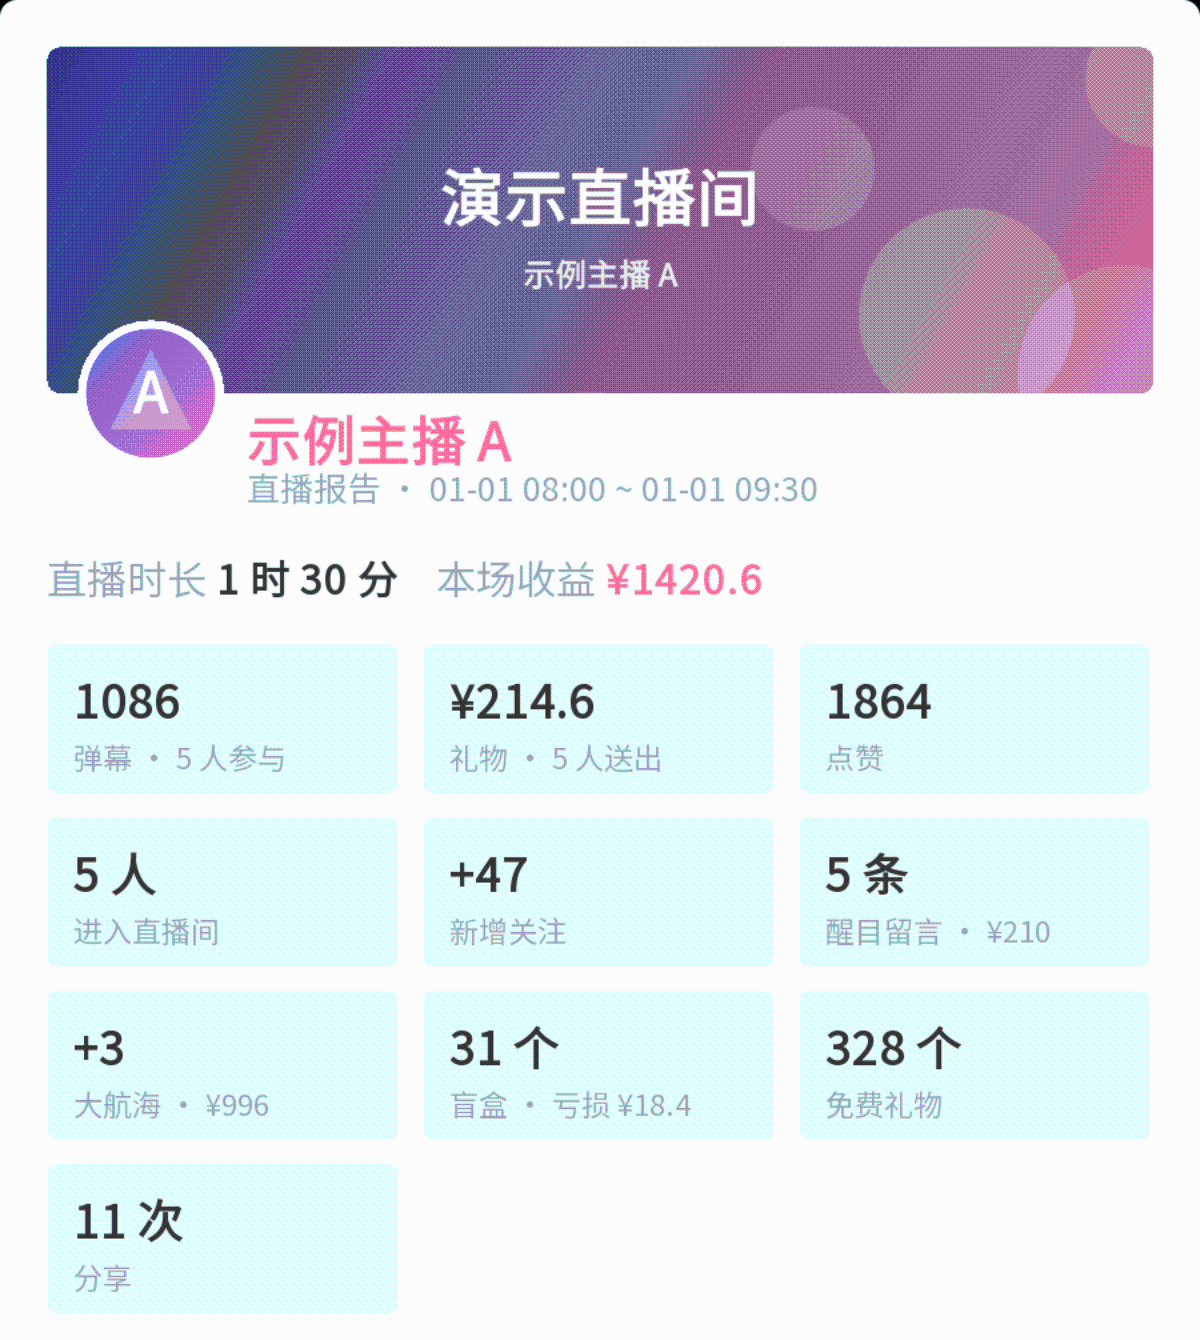
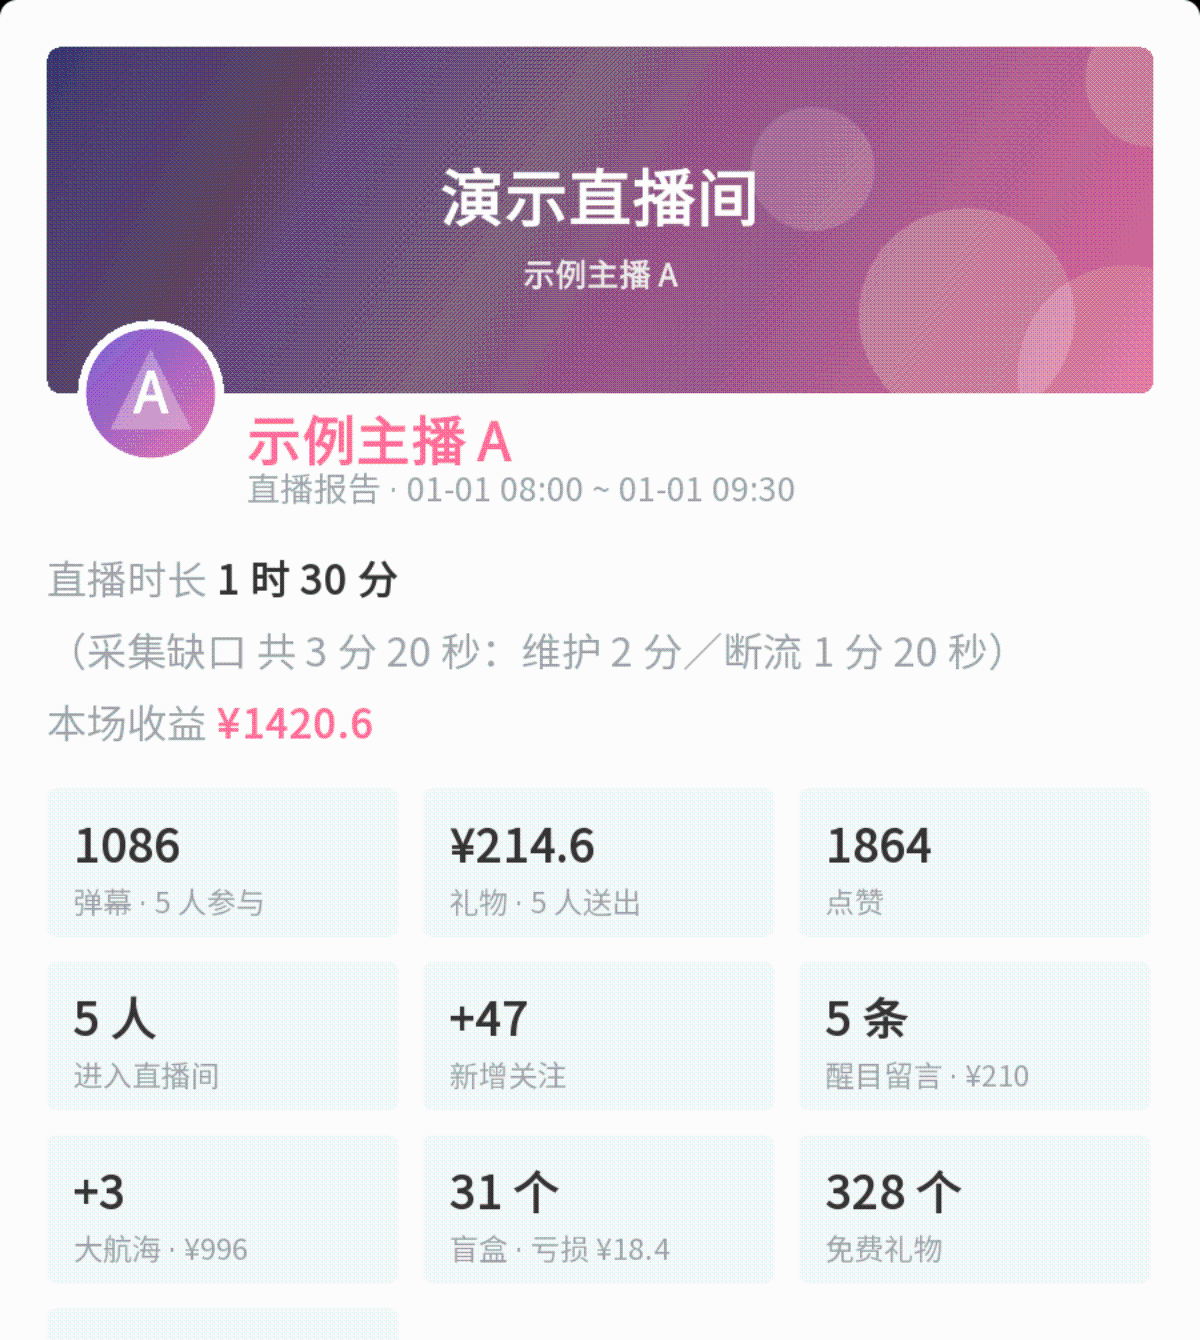
手册补下播报告演示图（带采集缺口一行）与群里菜单原文，演示字体表补上表情字体

Changed region(s): [[0.0308, 0.3366, 0.9558, 1.0]]

diff --git a/plugins/nova-report/src/test/java/org/frostnova/nova/report/demo/DemoAssets.java b/plugins/nova-report/src/test/java/org/frostnova/nova/report/demo/DemoAssets.java
@@ -9,6 +9,7 @@ import org.frostnova.nova.bilibili.model.GuardMedal;
 import org.frostnova.nova.bilibili.model.GuardMember;
 import org.frostnova.nova.bilibili.util.BilibiliApiUtil;
 import org.frostnova.nova.core.config.NovaCoreProperties;
+import org.frostnova.nova.core.model.LiveGap;
 import org.frostnova.nova.core.model.LiveStreamerInfo;
 import org.frostnova.nova.core.model.TextWithStyle;
 import org.frostnova.nova.core.service.DefaultLiveDataService;
@@ -154,6 +155,8 @@ public final class DemoAssets {
     static FontUtil bundledFonts() {
         NovaCoreProperties properties = new NovaCoreProperties();
         properties.getPaint().getFonts().add("内置");
+        // 表情字体「内置表情」也进表：缺了它，昵称与弹幕里的表情画成豆腐块
+        properties.getPaint().getFonts().add("内置表情");
         FontUtil fonts = new FontUtil(new DefaultResourceLoader(), properties);
         fonts.init();
         return fonts;
@@ -184,6 +187,8 @@ public final class DemoAssets {
 
         NovaCoreProperties coreProperties = new NovaCoreProperties();
         coreProperties.getPaint().getFonts().add("内置");
+        // 同 bundledFonts()：表情字体进表，表情才画得出来
+        coreProperties.getPaint().getFonts().add("内置表情");
         String version = projectVersion(repoRoot());
         Properties buildInfo = new Properties();
         buildInfo.setProperty("version", version);
@@ -432,6 +437,13 @@ public final class DemoAssets {
         long end = START_MILLIS + DURATION_MILLIS;
         data.setLiveStartTime(platform, STREAMER_UID, START_MILLIS);
         data.setLiveEndTime(platform, STREAMER_UID, end);
+
+        // 采集缺口两个成因各留一段：停机（维护）与本房断线（断流）是两格账，各记各的。
+        // 一格里不记第二段——每记新的一段都会先清掉 30 天前的旧段，而演示场次在 2024 年，
+        // 再记也留不下来。这样报告上「采集缺口」那句话两个成因的分栏都看得到
+        data.recordDowntime(START_MILLIS + 30 * 60_000L, START_MILLIS + 32 * 60_000L, LiveGap.Reason.MAINTENANCE);
+        data.recordRoomOutage(platform, STREAMER_UID, START_MILLIS + 70 * 60_000L,
+                START_MILLIS + 71 * 60_000L + 20_000L);
 
         data.incrementLiveMetric(platform, STREAMER_UID, BilibiliLiveMetric.DANMU_COUNT, 1_086);
         data.incrementLiveMetric(platform, STREAMER_UID, BilibiliLiveMetric.GIFT_VALUE, 214.6);

diff --git a/manual/08-commands-in-group.md b/manual/08-commands-in-group.md
@@ -60,8 +60,29 @@
 **推送的文字能改吗？** 能，但不在群里改——那是控制台推送页的事，
 见[第 6 章](06-add-streamer-and-push.md)。
 
-> [!TIP] 截图位（待补）：群里发 `@机器人 菜单` 后机器人回的那份菜单。
-> 菜单顶行的会话说明原样露出；群里成员的昵称要打码。
+群里发 `@机器人 菜单`，机器人回的是一段文字，长这样（示例：本机没开累计数据、
+本群没关任何命令）：
+
+```
+用法：@ 我，后面接命令名，例如「菜单」。
+
+可用命令：
+
+【提醒订阅】
+@名单 [开播|动态] [主播 uid 或昵称] — 查看提醒订阅名单，可带「开播」或「动态」
+动态@我 [主播 uid 或昵称] — 开关动态提醒：没订就订上，订了就取消
+开播@我 [主播 uid 或昵称] — 开关开播提醒：没订就订上，订了就取消
+
+【命令管理】
+启用命令 <命令名> — 在本群启用某个命令
+禁用命令 <命令名> — 在本群禁用某个命令
+菜单 — 列出可用命令
+
+【数据查询】
+数据排行榜 <榜单> [总] [主播 uid 或昵称]（三者顺序不限） — 查各榜单排行，带「总」出历次累计（带「总」查累计要先开累计数据）
+直播报告 [主播 uid 或昵称] — 查看正在直播主播的实时数据报告
+直播间数据 [总] [主播 uid 或昵称] — 查询直播间的整体数据，带「总」出历次累计（带「总」查累计要先开累计数据）
+```
 
 ## 接下来
 

diff --git a/manual/01-what-novabot-does.md b/manual/01-what-novabot-does.md
@@ -29,8 +29,7 @@ NovaBot 是一个哔哩哔哩直播与动态推送机器人。你告诉它要盯
 > [!TIP] 截图位（待补）：控制台首页整页。露出健康自检与「今日」三个数。
 > 页面里出现的主播昵称与头像要用演示数据或打码。
 
-> [!TIP] 截图位（待补）：一张下播报告图（演示数据即可）。
-> 这里只要让读者知道「长这样」，各块怎么看留到第 9 章细讲。
+![一张下播报告图（示例数据）](images/01-stream-report.png)
 
 ## 适合谁用
 

diff --git a/manual/09-stream-reports.md b/manual/09-stream-reports.md
@@ -76,8 +76,7 @@
 - **「有 N 条推送的图片未送达」**：这一场有推送的图片没发出去，但文字发到了。
   为零时不显示，看不到这一行就是都送到了。
 
-> [!TIP] 截图位（待补）：一张完整的下播报告图，最好带「采集缺口」那一行。
-> 观众昵称、头像、粉丝牌名、主播昵称全部用演示数据或打码。
+![完整的下播报告图（示例数据），时长后带「采集缺口」](images/01-stream-report.png)
 
 ### 两条人数曲线怎么读
 
